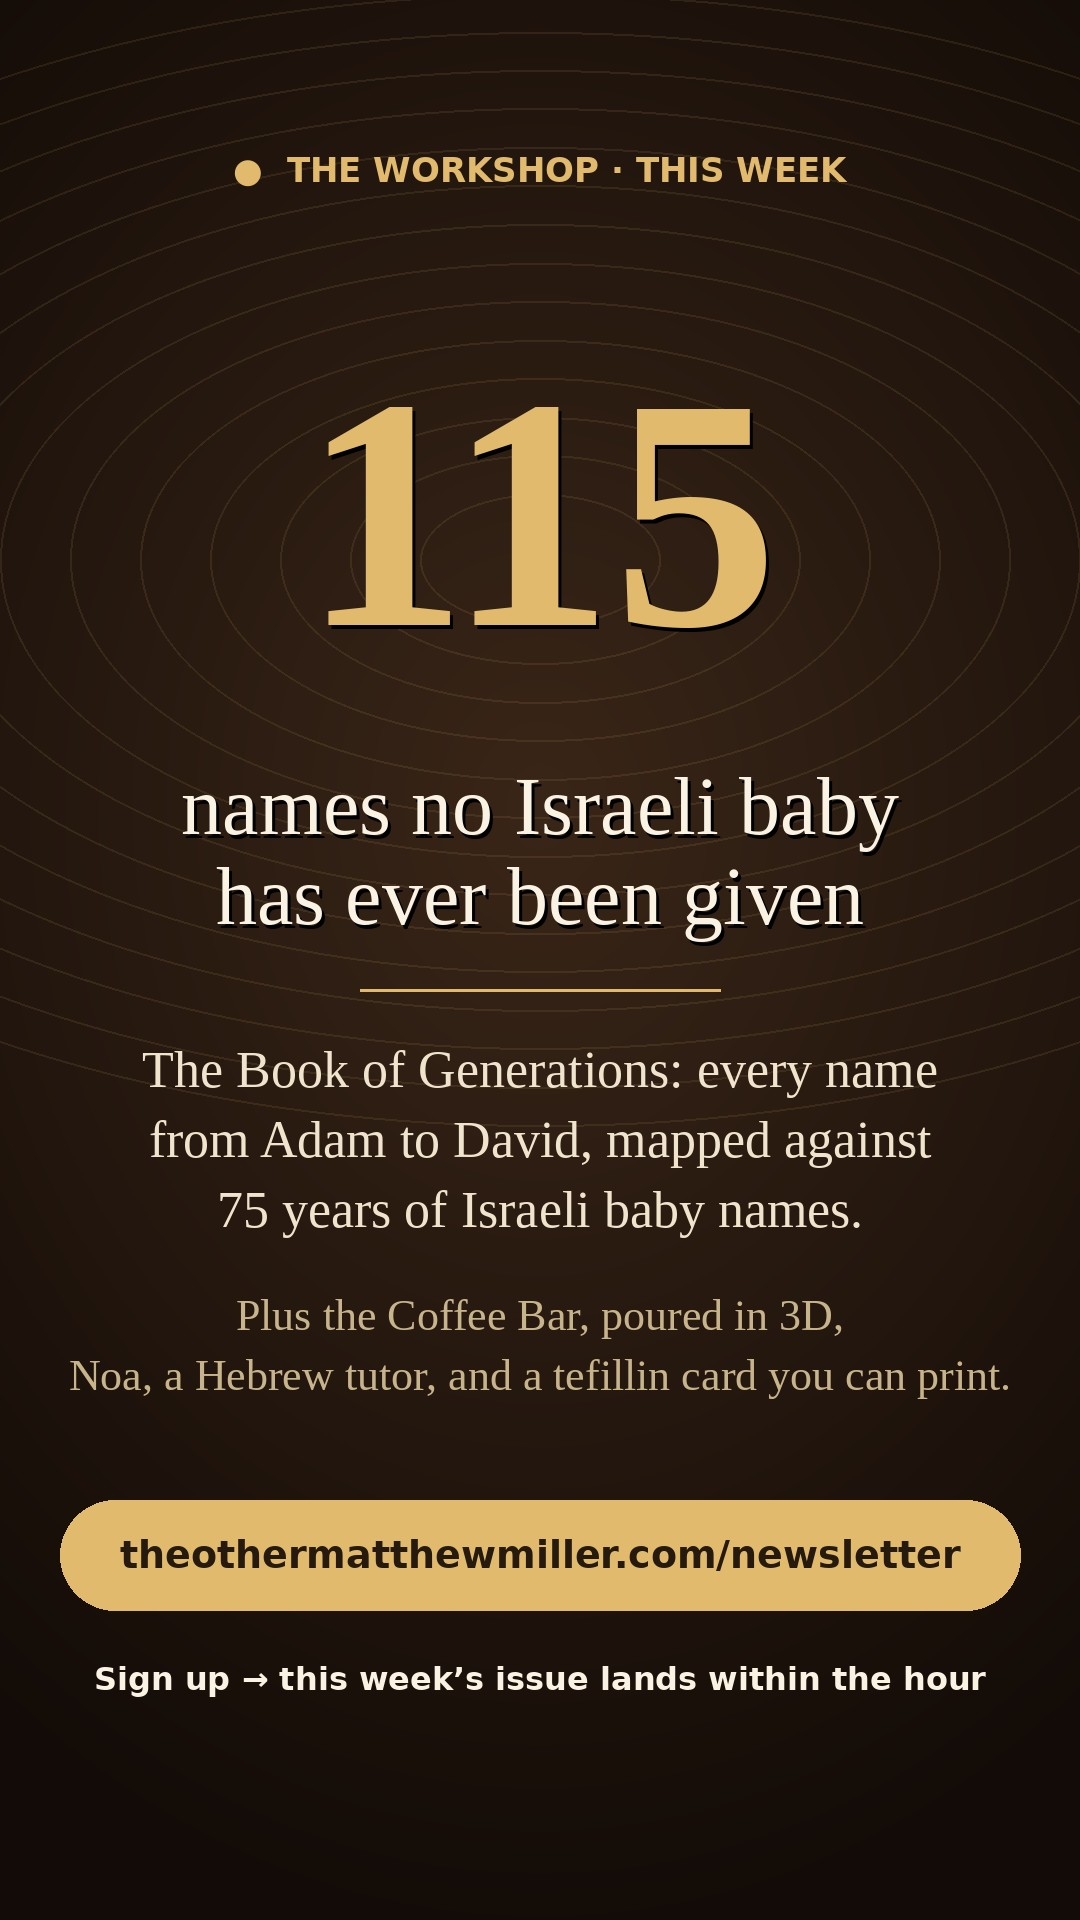
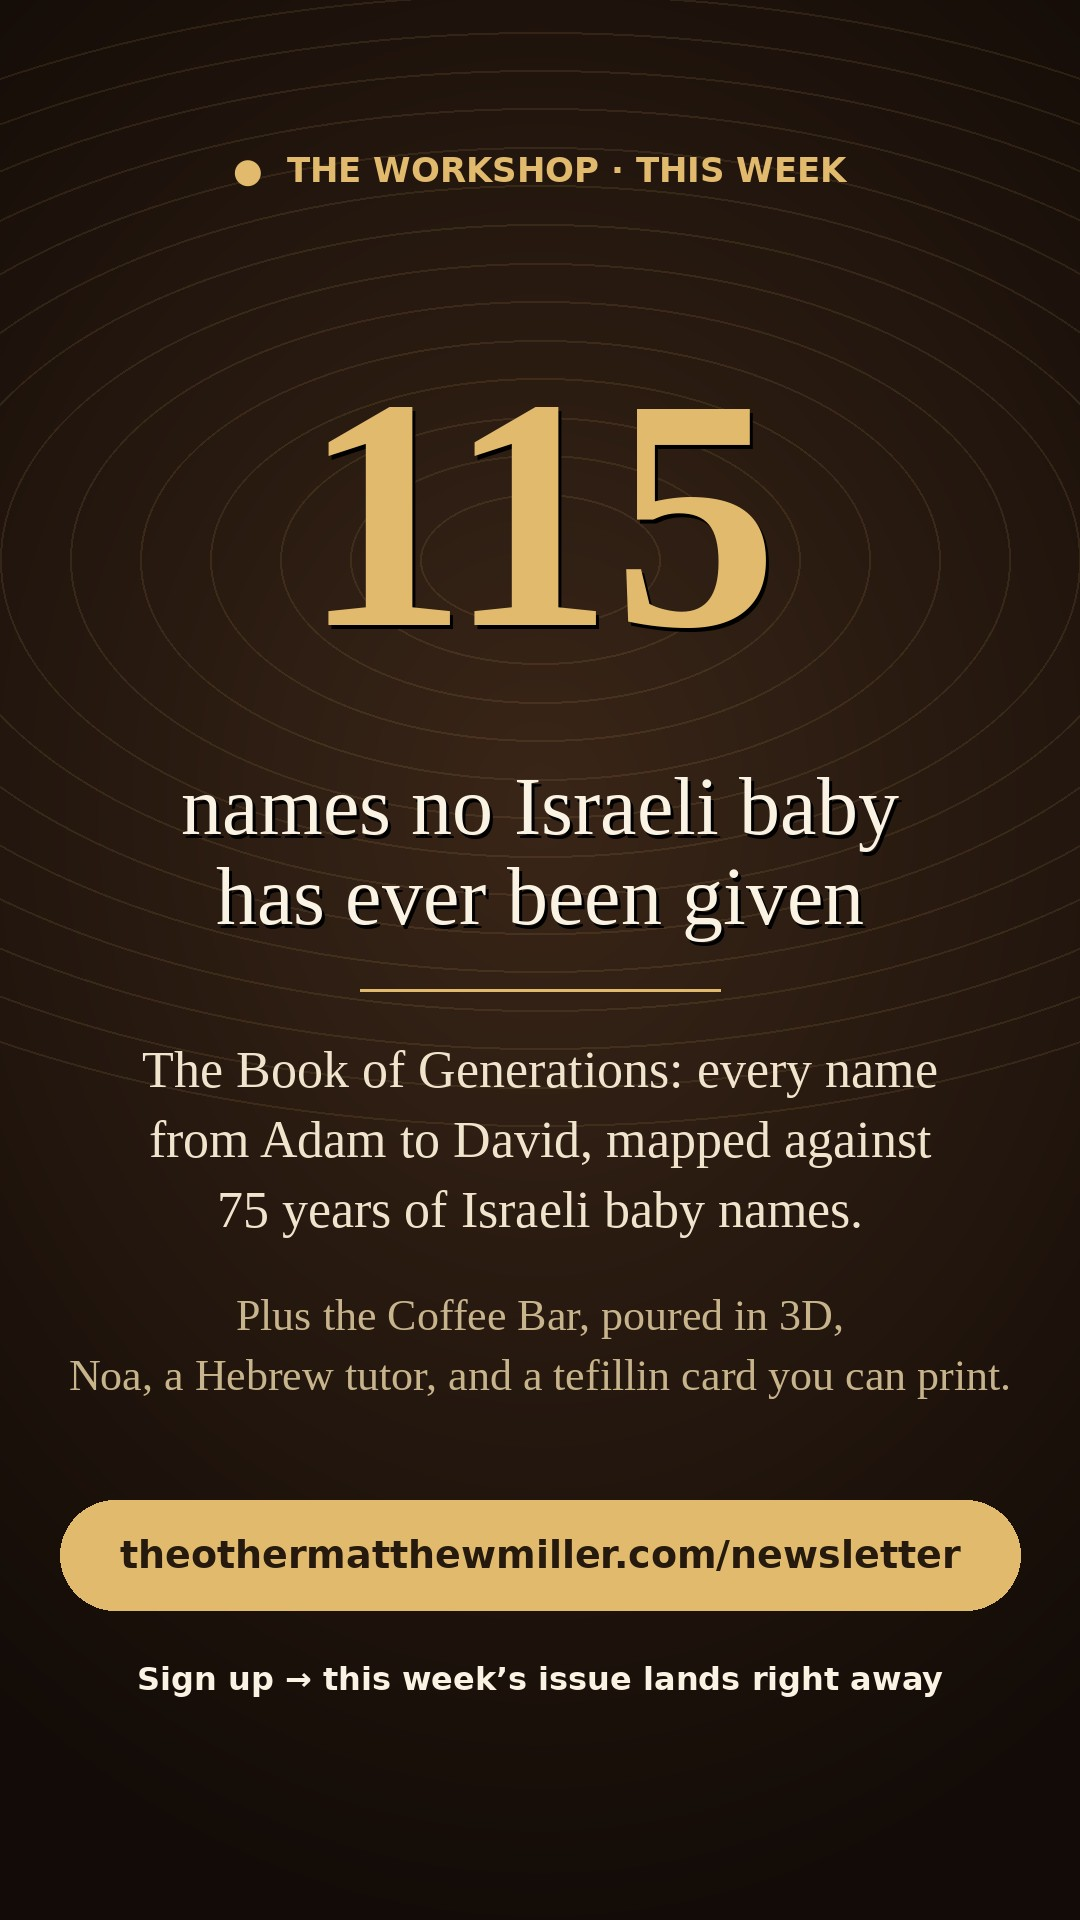
WhatsApp status: signups now get the issue right away
Claude-Session: https://claude.ai/code/session_015RpZhJXAze9hPyDkjQabUW

diff --git a/writing/newsletter/2026-10-19-whatsapp.md b/writing/newsletter/2026-10-19-whatsapp.md
@@ -15,7 +15,7 @@ This week: 115 names no Israeli baby has ever had 📜
 
 Every name from Adam to David, mapped against 75 years of Israeli baby names. Plus the Coffee Bar in 3D, Noa (a Hebrew tutor who's seven), and a tefillin card you can print.
 
-Sign up and it lands within the hour 👇
+Sign up and it lands right away 👇
 theothermatthewmiller.com/newsletter
 
 ---
